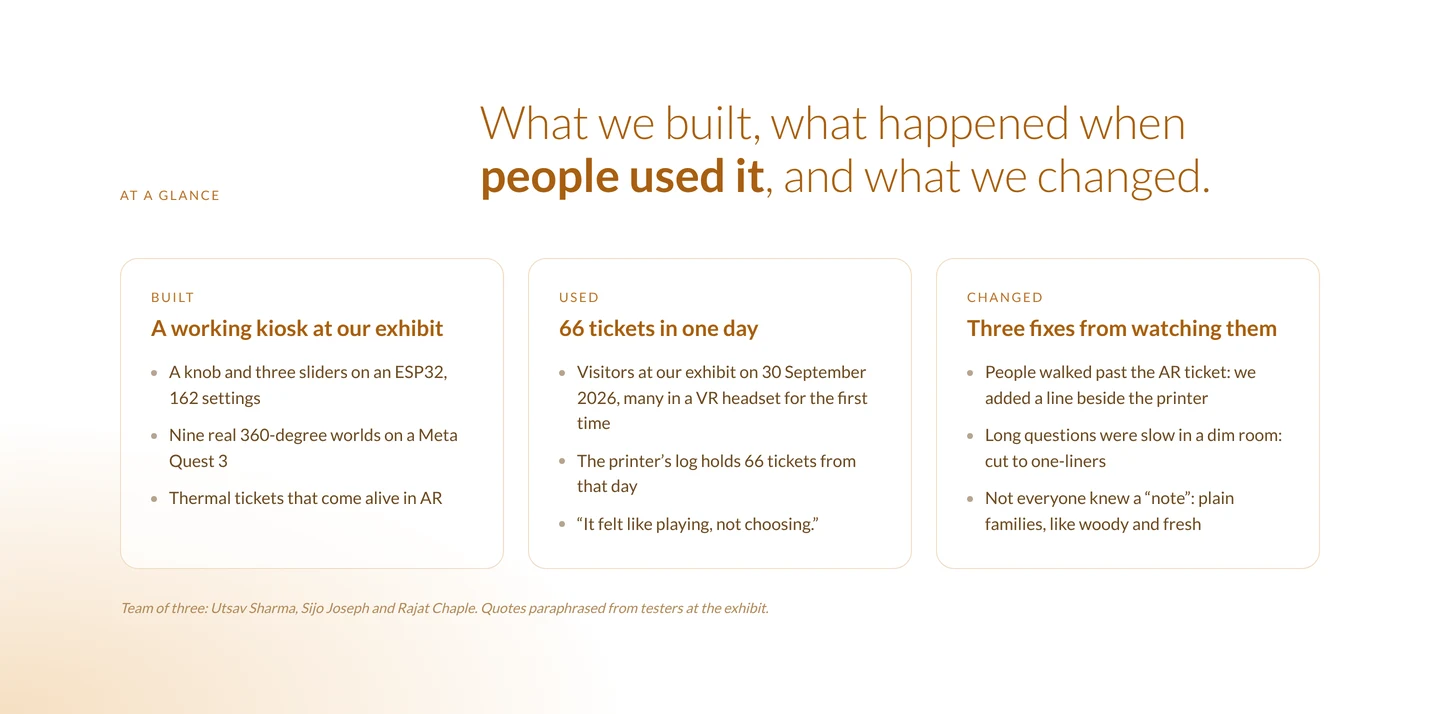
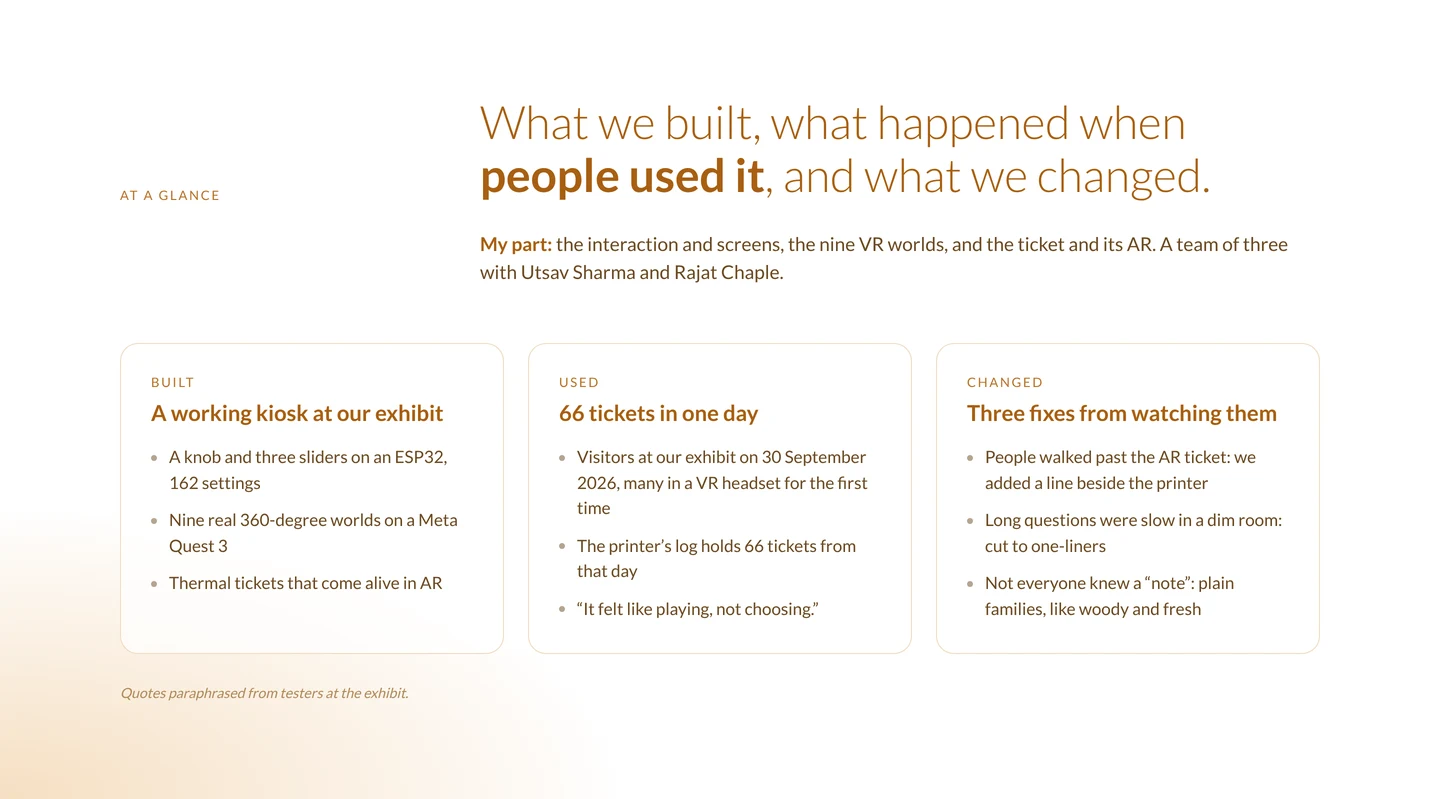
Syntra: name my part in the glance strip; Carekin test kit; build 116
Claude-Session: https://claude.ai/code/session_013G15fzCMwgXvJexXZMdXm4

diff --git a/index.html b/index.html
@@ -24,11 +24,11 @@
   <meta property="og:image:height" content="630">
   <meta property="og:image:alt" content="Sijo Joseph, product, UX and AI designer, with four case study covers">
   <meta name="twitter:card" content="summary_large_image">
-  <script src="update.js?v=115"></script>
-  <script src="gate.js?v=115"></script>
-  <link href="fonts/fonts.css?v=115" rel="stylesheet">
-  <link rel="stylesheet" href="styles.css?v=115">
-  <link rel="stylesheet" href="reader.css?v=115">
+  <script src="update.js?v=116"></script>
+  <script src="gate.js?v=116"></script>
+  <link href="fonts/fonts.css?v=116" rel="stylesheet">
+  <link rel="stylesheet" href="styles.css?v=116">
+  <link rel="stylesheet" href="reader.css?v=116">
   <script type="importmap">
   {
     "imports": {
@@ -42,10 +42,10 @@
   <link rel="modulepreload" href="vendor/three/examples/jsm/loaders/GLTFLoader.js">
   <link rel="modulepreload" href="vendor/three/examples/jsm/controls/OrbitControls.js">
   <link rel="modulepreload" href="vendor/three/examples/jsm/libs/meshopt_decoder.module.js">
-  <link rel="modulepreload" href="main.js?v=115">
-  <link rel="modulepreload" href="sound.js?v=115">
-  <link rel="modulepreload" href="room-utils.js?v=115">
-  <link rel="modulepreload" href="cat.js?v=115">
+  <link rel="modulepreload" href="main.js?v=116">
+  <link rel="modulepreload" href="sound.js?v=116">
+  <link rel="modulepreload" href="room-utils.js?v=116">
+  <link rel="modulepreload" href="cat.js?v=116">
   <script type="application/ld+json">{"@context": "https://schema.org", "@type": "Person", "name": "Sijo Joseph", "url": "https://sijo.work/", "jobTitle": "Product, UX and AI designer", "alumniOf": {"@type": "CollegeOrUniversity", "name": "National Institute of Design, Bengaluru"}, "address": {"@type": "PostalAddress", "addressLocality": "Bengaluru", "addressCountry": "IN"}, "sameAs": ["https://www.linkedin.com/in/sijodesign", "https://github.com/sijojoseph7509-a11y"], "knowsAbout": ["Product design", "UX design", "Interaction design", "Information design", "Wayfinding", "Brand identity", "AI-assisted prototyping"]}</script>
 </head>
 <body>
@@ -188,11 +188,11 @@
     </div>
   </noscript>
 
-  <script src="content.js?v=115"></script>
-  <script src="track.js?v=115"></script>
-  <script src="icons.js?v=115"></script>
-  <script src="os.js?v=115"></script>
-  <script src="music.js?v=115"></script>
-  <script type="module" src="main.js?v=115"></script>
+  <script src="content.js?v=116"></script>
+  <script src="track.js?v=116"></script>
+  <script src="icons.js?v=116"></script>
+  <script src="os.js?v=116"></script>
+  <script src="music.js?v=116"></script>
+  <script type="module" src="main.js?v=116"></script>
 </body>
 </html>

diff --git a/tools/glance/glance.html b/tools/glance/glance.html
@@ -28,7 +28,7 @@ section { width: 1440px; padding: 96px 120px; }
 .syntra h2 { font: 300 46px/1.15 Lato; color: #A85F12; } .syntra h2 b { font-weight: 700; }
 .syntra .col { background: rgba(255,255,255,.75); border: 1px solid #F0DCC2; }
 .syntra .col h3 { font: 700 22px/1.25 Lato; color: #A85F12; margin-top: 10px; }
-.syntra .col li { color: #6B4A22; } .syntra .foot { color: #B08A5A; font-style: italic; }
+.syntra .col li { color: #6B4A22; } .syntra .role { margin: 28px 0 0 360px; font: 400 19px/1.5 Lato; color: #6B4A22; } .syntra .role b { font-weight: 700; color: #A85F12; } .syntra .foot { color: #B08A5A; font-style: italic; }
 
 /* Carekin: mint, Google Sans Flex, tide teal and coral */
 .carekin { background: #EDF4F2; font-family: GSFlex, sans-serif; color: #12302D; }
@@ -51,6 +51,7 @@ section { width: 1440px; padding: 96px 120px; }
 
 <section class="syntra" data-slug="syntra">
   <div class="top"><p class="lab">At a glance</p><h2>What we built, what happened when <b>people used it</b>, and what we changed.</h2></div>
+  <p class="role"><b>My part:</b> the interaction and screens, the nine VR worlds, and the ticket and its AR. A team of three with Utsav Sharma and Rajat Chaple.</p>
   <div class="cols">
     <div class="col"><p class="lab">Built</p><h3>A working kiosk at our exhibit</h3><ul>
       <li>A knob and three sliders on an ESP32, 162 settings</li><li>Nine real 360-degree worlds on a Meta Quest 3</li><li>Thermal tickets that come alive in AR</li></ul></div>
@@ -59,7 +60,7 @@ section { width: 1440px; padding: 96px 120px; }
     <div class="col"><p class="lab">Changed</p><h3>Three fixes from watching them</h3><ul>
       <li>People walked past the AR ticket: we added a line beside the printer</li><li>Long questions were slow in a dim room: cut to one-liners</li><li>Not everyone knew a “note”: plain families, like woody and fresh</li></ul></div>
   </div>
-  <p class="foot">Team of three: Utsav Sharma, Sijo Joseph and Rajat Chaple. Quotes paraphrased from testers at the exhibit.</p>
+  <p class="foot">Quotes paraphrased from testers at the exhibit.</p>
 </section>
 
 <section class="carekin" data-slug="carekin">

diff --git a/content.js b/content.js
@@ -35,7 +35,7 @@ window.SITE = {
   projects: [
     { title: "Syntra", tag: "Interaction Design · Phygital Retail", color: "#F3E7D8", status: "Retail Tech, NID", url: "#",
       summary: "An interactive perfume finder for ZARA: turn a knob and three sliders, see your scent, step into its world in VR and take it home on a ticket that comes alive in AR.",
-      case: { slug: "syntra", glance: ["glance.webp", 714, "At a glance: what we built (a working kiosk with a knob and three sliders on an ESP32, nine 360-degree worlds on a Meta Quest 3, thermal tickets that come alive in AR), what happened when people used it (66 tickets printed at our exhibit on 30 September 2026) and the three things we changed after watching visitors. Team of three."], cover: "fx/card.webp", coverSlide: ["fx/cover-slide.webp", 900], fx: "syntra-fx.js", stills: [1, 2, 8, 9, 10, 11, 15], sections: [
+      case: { slug: "syntra", glance: ["glance.webp", 799, "At a glance: what we built (a working kiosk with a knob and three sliders on an ESP32, nine 360-degree worlds on a Meta Quest 3, thermal tickets that come alive in AR), what happened when people used it (66 tickets printed at our exhibit on 30 September 2026) and the three things we changed after watching visitors. Team of three; my part was the interaction and screens, the nine VR worlds, and the ticket and its AR."], cover: "fx/card.webp", coverSlide: ["fx/cover-slide.webp", 900], fx: "syntra-fx.js", stills: [1, 2, 8, 9, 10, 11, 15], sections: [
           // 2× exports of Figma "Syntra · Documentation" (RFow6mVvYRDVcu5NrMgO7D, page 223:2) with the moving parts left out; syntra-fx.js adds them back
         ["01.webp", 2725, "Syntra. An interactive perfume finder. Know the feeling, not the name? Let's find your perfume. Retail Tech module, NID, 2 weeks."],
         ["02.webp", 2330, "Meet Syntra: a kiosk you play like an instrument. A visitor in the VR headset at our exhibit, then four steps: turn, see, step in, take it home."],

diff --git a/main.js b/main.js
@@ -5,8 +5,8 @@ import { RoomEnvironment } from "three/addons/environments/RoomEnvironment.js";
 import { GLTFLoader } from "three/addons/loaders/GLTFLoader.js";
 import { MeshoptDecoder } from "three/addons/libs/meshopt_decoder.module.js";
 import { mergeGeometries } from "three/addons/utils/BufferGeometryUtils.js";
-import { Sound } from "./sound.js?v=115";
-import { sharpen, rr, bezier, tileNoise, wrapText } from "./room-utils.js?v=115";
+import { Sound } from "./sound.js?v=116";
+import { sharpen, rr, bezier, tileNoise, wrapText } from "./room-utils.js?v=116";
 
 const S = window.SITE;
 const TOUCH = matchMedia("(pointer: coarse)").matches;   // phones & tablets: say "tap", no hover effects

diff --git a/HANDOVER.md b/HANDOVER.md
@@ -390,6 +390,7 @@ explorations · sketches · side projects · ideas"), poster text, terminal mess
 - **Handovo, detailed case study (v113):** tools/handovo/case.html now has 35 sections at Carekin's depth: snapshot, Play the day, problem, context by numbers (IBEF retail ~8% of workforce; Microsoft Work Trend Index 2022 frontline report: 63% say leadership messages don't reach them, 1 in 3 lack the right tools; WhatsApp 400M+ India users via TechCrunch 2019), two illustrated-scenario sections (tools/handovo/ill, captioned "AI-generated illustration in my style"), research plan, competitive landscape (categories, no named products), proto-personas, journey map, system architecture, routing diagram, the 9 rules with defaults (from src/lib/templates.ts), 12 key flows, time-driven flows, edge cases, language, trust and privacy (staff privacy notice), principles, build status, measurement plan (targets, no results), next, reflection. Fixed the count numbers to match the screen (8 counted vs 12, ₹7,596). render.mjs runs on the Mac (QA_DEPS) or in the cloud (global puppeteer); reader.py now reads tables, diagram boxes, the journey map, rule rows and stats, and gives illustrations their own alt text. The floor-pilot repo is on GitHub (sijojoseph7509-a11y/floor-pilot) for facts.
 - **Proof and motion (v114):** Handovo gains three evidence sections (At a glance; Testing the agent; What the test changed) from the engine evaluation in the floor-pilot repo (branch eval-and-reader-fix: eval/run.ts, eval/messages.json, eval/results.json): 0 of 8,019 rule checks broke the manager's setting, 80 of 95 labelled messages read right by the scripted fallback (en 52/54, hi 19/22, kn 5/10, ml 4/9), all 15 misses still reached a person, 0 of 78 attack attempts approved anything; it found and fixed "khatam ho gaya" being read as done. Motion: case.fx = case-fx.js with ten films (work/handovo/fx/*.mp4, made by tools/handovo/films.mjs from the Play the day demo and from case.html?anim for the routing diagram) and the journey curve drawing itself (render.mjs leaves [data-fx-draw] out of the still and writes fx/journey-curve.webp; positions in tools/handovo/fx.json). case-fx.js videos take an optional 7th value, a corner radius. Syntra, Carekin and Ekmaati get an "At a glance" strip (tools/glance/glance.html -> work/<slug>/glance.webp via tools/glance/render.mjs), shown by os.js after the cover from content.js case.glance, inside a <figure> so motion layers that count :scope > img are unaffected. Carekin's strip says plainly that no carers have tested it yet.
 - **Ekmaati box fixes (v115):** the sleeve textures s_front, s_back and s_left are rebuilt by tools/ekmaati/rectify.py, which finds each cut-out photo's four corners, straightens it to an exact rectangle and fills any uncovered edge pixel from its neighbours (the old warps left white and dark slivers at the panel edges and a slanted back panel). s_right stays as it was: its photo was shot at three quarters. The roof tier and peak are now built in ekmaati-fx.js (temple_top: printed canvas textures from the real box, roof 0.52 x 0.13, peak base 0.15, height 0.12); box.glb's roof and peak are hidden, so Blender isn't needed for this.
+- **v116:** Syntra's glance strip names Sijo's part (interaction and screens, the nine VR worlds, the ticket and its AR). floor-pilot main now has the evaluation, the khatam fix and a Live AI mode (eval/live.ts, needs ANTHROPIC_API_KEY, writes eval/results-live.json); Sijo confirmed the two Handovo decisions. tools/carekin/test-kit.md + results.csv: a ready-to-run session script for the Carekin test plan; a filled results.csv becomes Carekin's "What testing showed" section.
 - Work cards and About thumbnails use `case.coverSlide` when a project gives one (Syntra: `fx/cover-slide.webp`, 1440 × 900), otherwise the first section.
 - Desk folders: tab width now shares the edge (`TAB_W`), so 4+ projects never overlap.
 - ⚠ Testing note (14 Oct 2026): another session had an http-server on 127.0.0.1:4322 serving the `.claude/worktrees/goofy-solomon-8f688e` copy — always check `lsof -iTCP:<port>` or use a fresh port before trusting QA results.

diff --git a/tools/carekin/test-kit.md b/tools/carekin/test-kit.md
@@ -1,0 +1,55 @@
+# Carekin usability test kit
+
+Runs the test plan from the case study (section 42): eight tasks, one Figma prototype, five people per role.
+About 25 minutes a session. Fill in `results.csv` as you go, one row per person per task (result: completed, assisted or failed); send it back and it becomes the case study's "What testing showed" section.
+
+## Who to recruit
+
+| Role | How many | Who fits |
+|---|---|---|
+| Helper | 5 | Gives an older person their tablets at home: a home nurse, a maid or a family member who lives with them |
+| Organiser | 5 | Manages a parent's medicines from another house or city |
+
+The parent never uses the app, so they don't need a session. Pay people for their time if you can; a small gift is fine.
+
+## Before each session
+
+- Prototype open on an Android phone (helper: WhatsApp-style prompt and Home mode; organiser: the Carekin app).
+- For task 6, plant one misread field in the prescription check screen. Example: the photo shows Amlodipine 2.5 mg, the field says 25 mg.
+- For task 7, log the 8 am dose already, so the double-dose warning appears.
+- A timer, and this sheet.
+
+## Opening (read aloud)
+
+> Thanks for helping. I'm testing an app, not you, so nothing you do can be wrong. If something is confusing, that's exactly what I need to find. Please think aloud as you go. Can I take notes and screen-record the phone? Only the screen, not your face, and I'll delete it after I've written up my notes. You can stop at any time.
+
+Only record if they say yes. Write their answer in the notes column.
+
+## Tasks
+
+Read the prompt as written. Don't point at the screen or name buttons. If they're stuck for 30 seconds, mark the task as assisted and help them.
+
+| # | Who | Read aloud | Success | Measure |
+|---|---|---|---|---|
+| 1 | Helper | "It's 8 in the morning and you've just given Amma her tablet. Use this message to let the family know." | Logged without help | Time from the message appearing; target under 5 s |
+| 2 | Organiser | Show the Today screen for 5 seconds, then hide it. "Is Amma on track today? What's still to come?" | Right answer from one look | Answer correct or not |
+| 3 | Organiser | "The doctor changed one of Amma's medicines yesterday. Find out what changed." | Says the old and the new dose | Correct with no hint |
+| 4 | Organiser | "Your brother wants to know how today went. Send him today's status." | Status card sent to the group | Completed or not |
+| 5 | Helper | "Amma refused her evening tablet. Record that." | Marked not given; the family is told | Completed, then ask the 1 to 7 question below |
+| 6 | Organiser | "You've photographed a new prescription. Check it before it goes live." | Catches the misread field | Caught or missed |
+| 7 | Helper | "Please give Amma her 8 am tablet." | Chooses not to give it again | Correct choice with no hint |
+| 8 | Helper | Repeat tasks 1 and 5 with Android text size at 200% and TalkBack on | Both still complete | Completed; note any clipped text |
+
+**The 1 to 7 question (after task 5):** "Overall, how easy or hard was that? 1 is very hard, 7 is very easy." The target is 5 or more.
+
+## Closing questions
+
+1. What, if anything, would stop you using this every day?
+2. Who else in the family would need to see this?
+3. Was anything worded in a way you wouldn't say yourself?
+
+## After all ten sessions
+
+- Count completion per task, median time for task 1, and the share who caught the planted error in task 6.
+- Note every place two or more people got stuck: that's the next design change.
+- Write what you changed, and retest the changed screens with two more people if you can.
